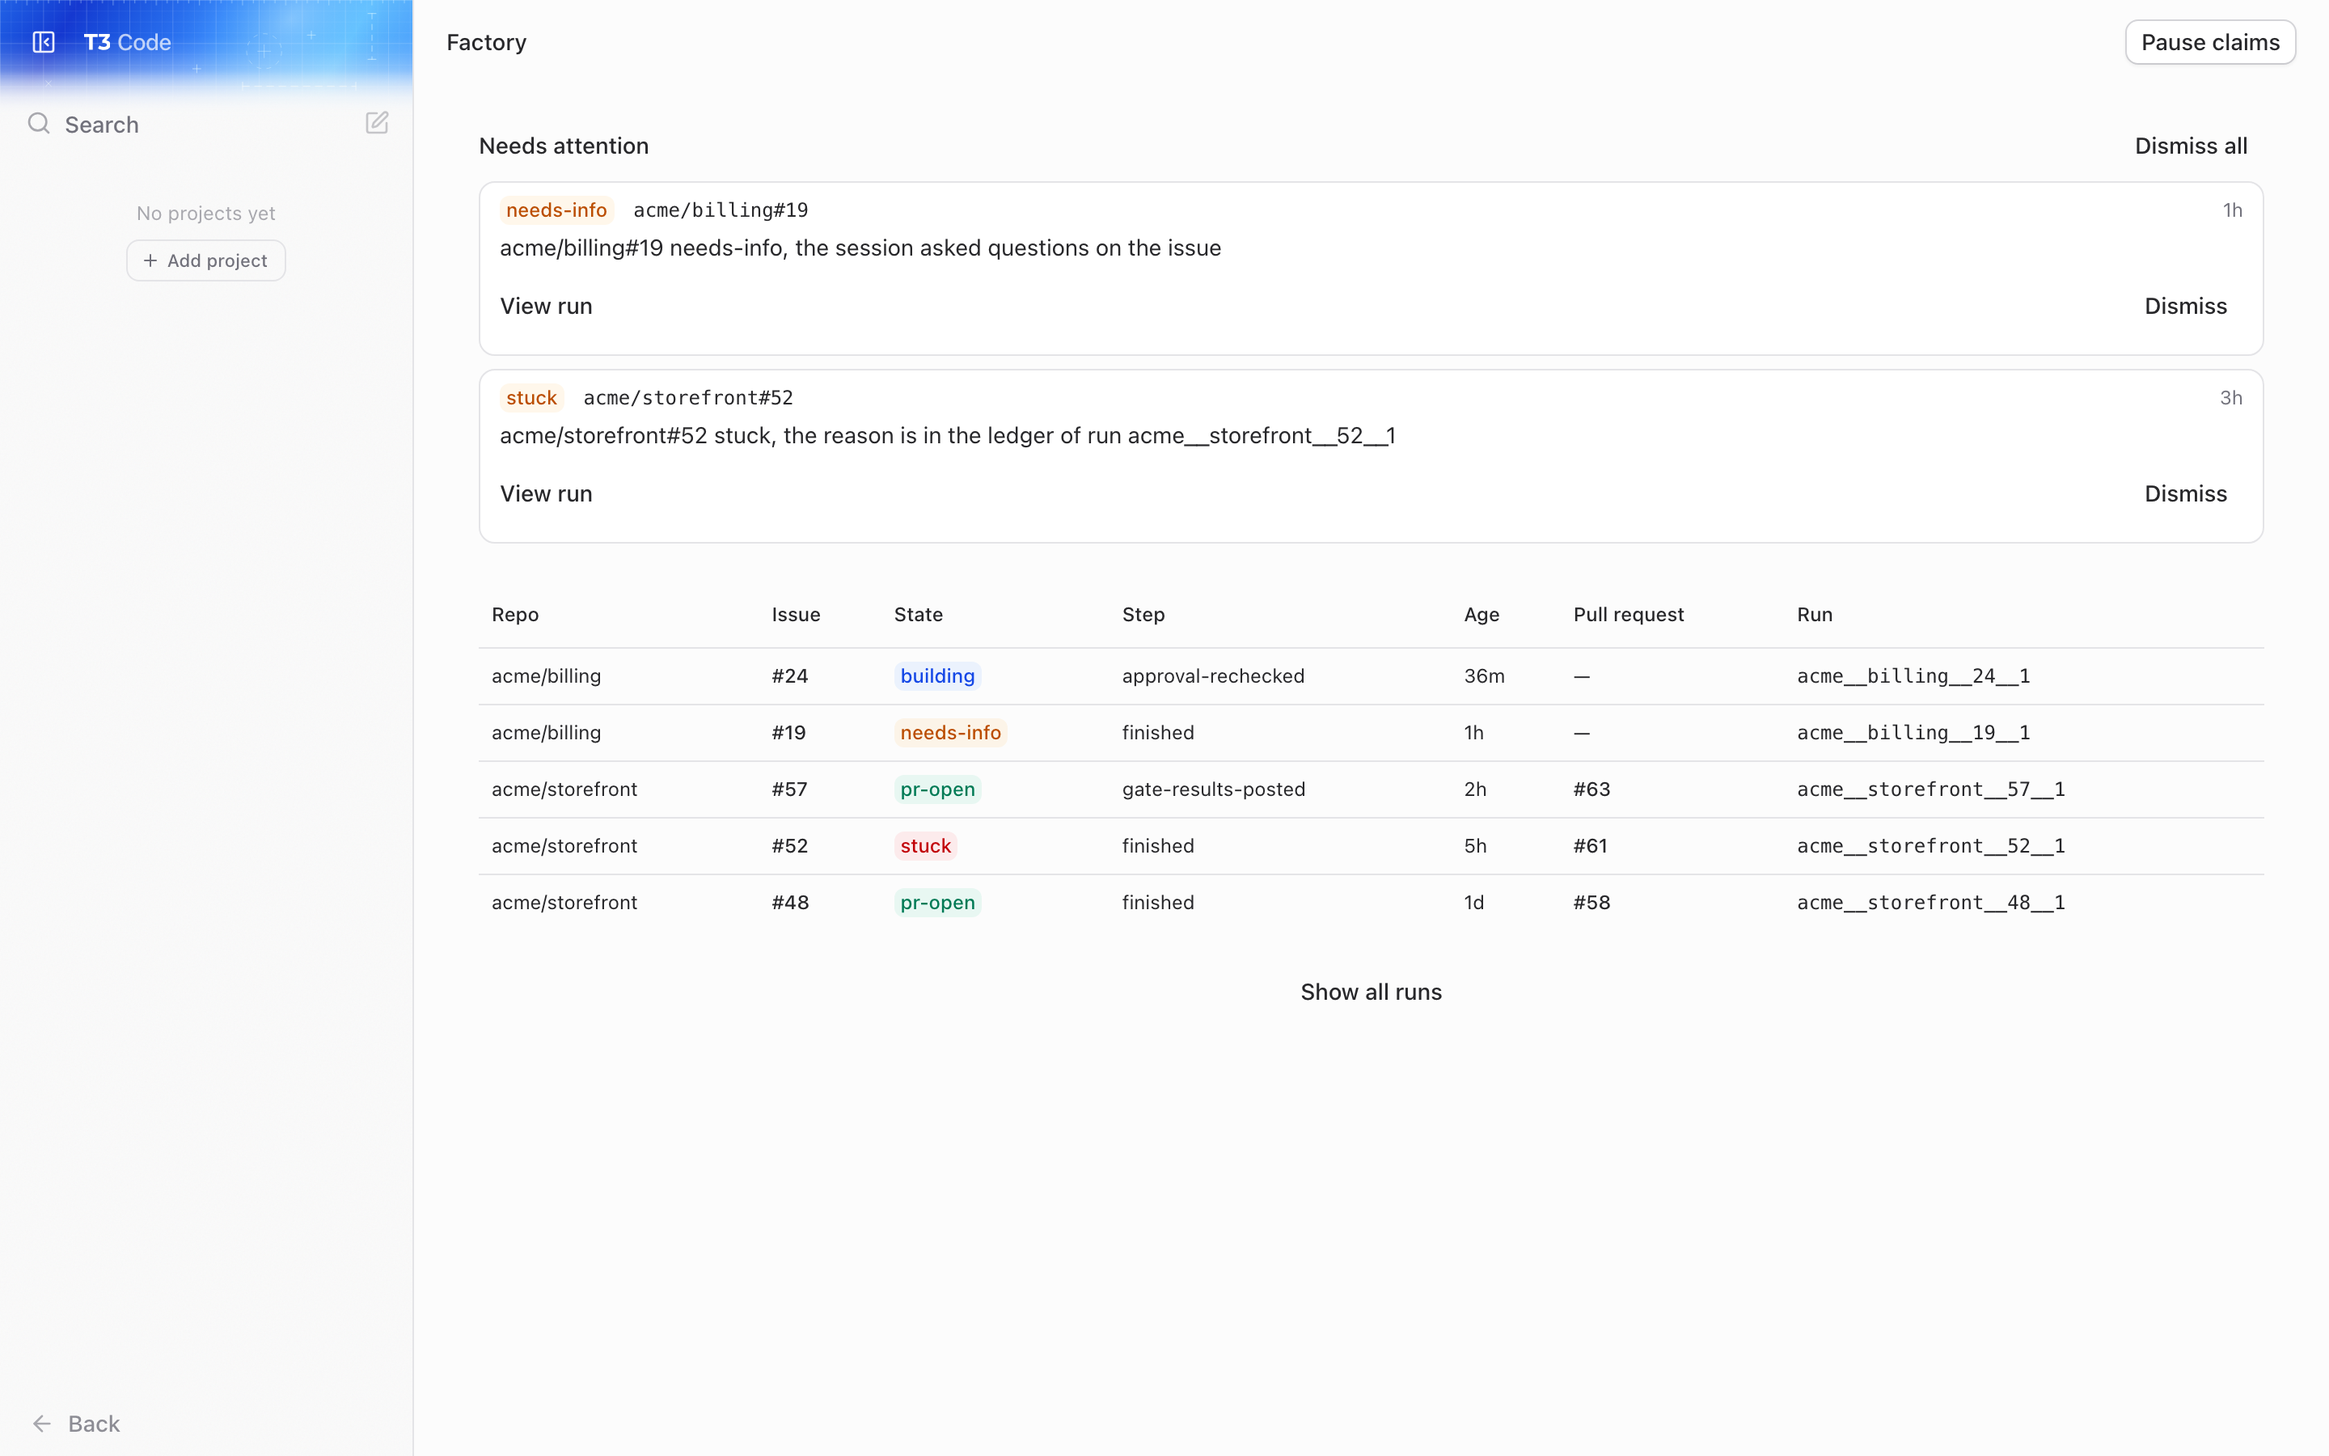
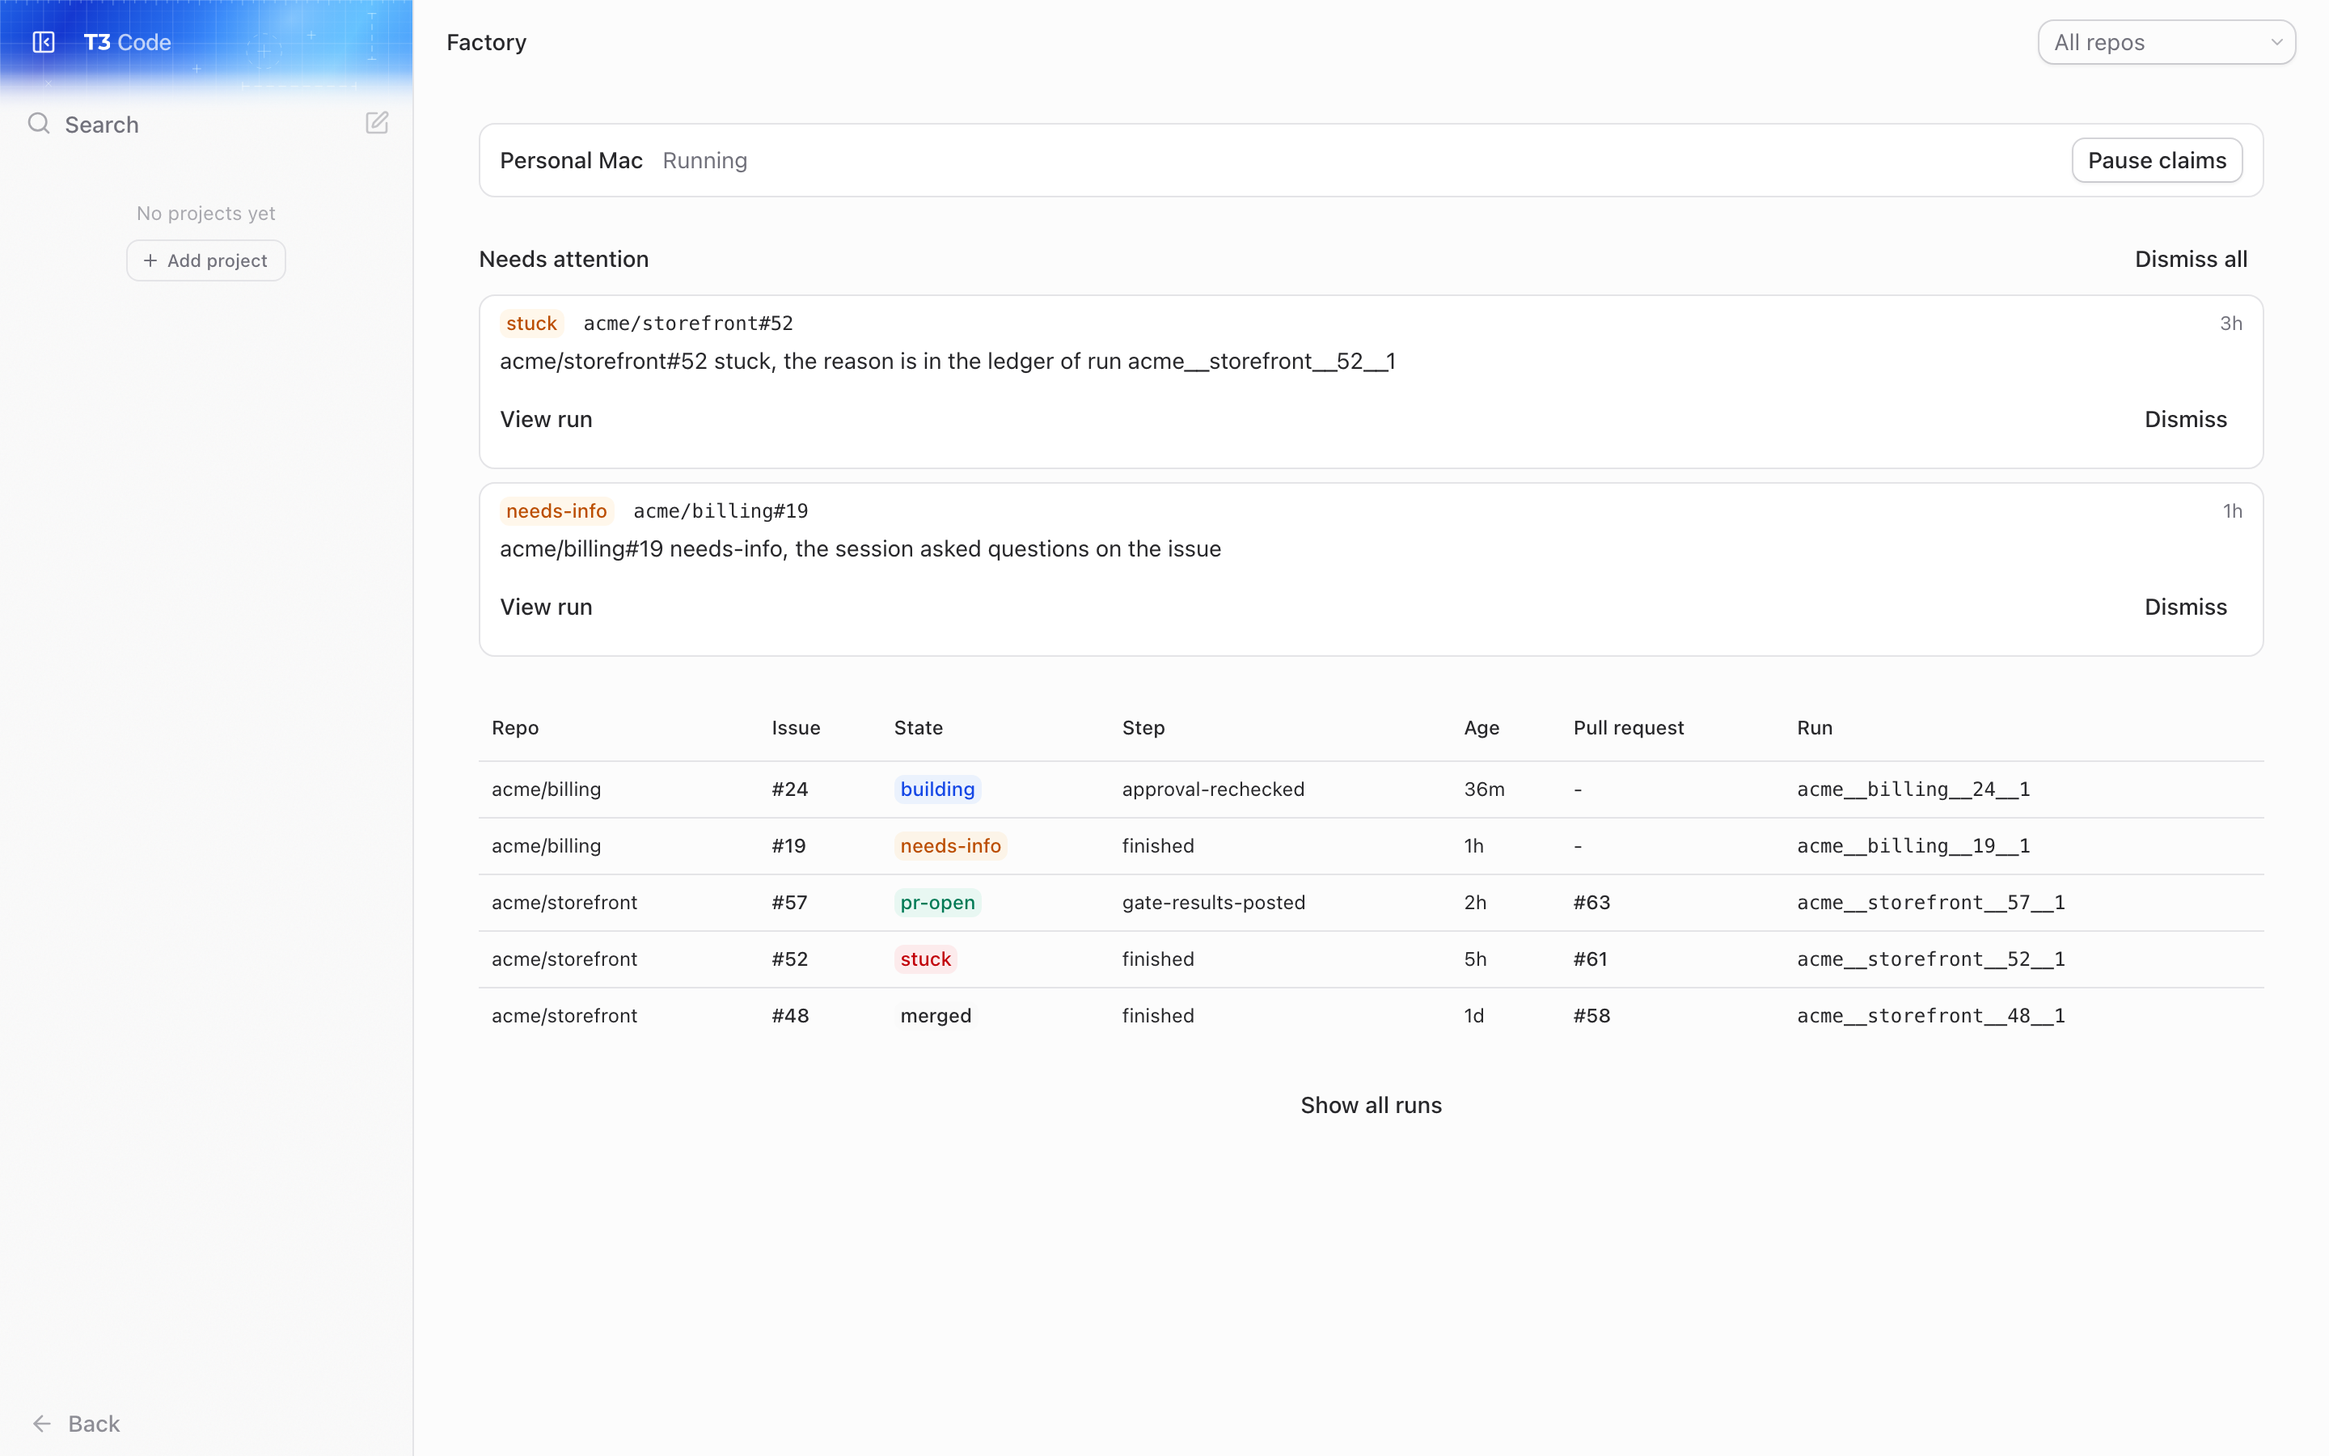
fix(factory): settings links open the factory's own environment, and docs show merged runs
- The idle row's and the config attention item's Factory settings links pass the
  environment as `machine`, so Settings edits that machine's config, not the primary's.
- Browser tests pin the merged/closed badge in the runs list (and the old label when a
  server sends no pr_end), and a finished run page's closed badge and "Step: finished".
- Ref moves to its own file, typed from LinkRef.
- The guide's screenshots are retaken with the demo data: the merged run reads merged,
  the run page links its issue and pull request, and the needs-info page shows its
  questions. Alt text follows.

diff --git a/apps/web/src/factory/FactoryPage.browser.test.tsx b/apps/web/src/factory/FactoryPage.browser.test.tsx
@@ -27,13 +27,23 @@ vi.mock("@tanstack/react-router", async (importOriginal) => ({
   Link: ({
     to,
     params,
+    search,
     children,
   }: {
     to: string;
     params?: Record<string, string>;
+    search?: Record<string, string>;
     children?: ReactNode;
   }) =>
-    createElement("a", { "data-to": to, "data-params": JSON.stringify(params ?? {}) }, children),
+    createElement(
+      "a",
+      {
+        "data-to": to,
+        "data-params": JSON.stringify(params ?? {}),
+        "data-search": JSON.stringify(search ?? {}),
+      },
+      children,
+    ),
   useSearch: () =>
     useSyncExternalStore(
       (listener) => {
@@ -303,6 +313,30 @@ describe("FactoryPage", () => {
     expect(text).toContain("claimed");
   });
 
+  it("shows merged or closed for a run that ended on its pull request, else its last state", async () => {
+    using _state = setup();
+    const ended = { state: "pr-open", finished: true, status: "finished", step: null };
+    state.runs = resource({
+      data: {
+        runs: [
+          runRow({ ...ended, id: "acme__merged__1__1", pr_end: "merged" }),
+          runRow({ ...ended, id: "acme__closed__2__1", pr_end: "closed" }),
+          // A server from before pr_end sends no such field.
+          runRow({ ...ended, id: "acme__older__3__1" }),
+        ],
+      },
+    });
+    await using page = await render(createElement(FactoryPage));
+    const badgeOf = (repo: string) =>
+      page
+        .all("tr")
+        .find((row) => row.textContent?.includes(repo))
+        ?.querySelector('[data-slot="badge"]')?.textContent;
+    expect(badgeOf("acme/merged")).toBe("merged");
+    expect(badgeOf("acme/closed")).toBe("closed");
+    expect(badgeOf("acme/older")).toBe("pr-open");
+  });
+
   it("marks an unreadable run", async () => {
     using _state = setup();
     state.runs = resource({
@@ -356,6 +390,8 @@ describe("FactoryPage", () => {
     expect(text).toContain("Idle: no factory config");
     const settings = page.all("a").find((a) => a.textContent === "Factory settings");
     expect(settings?.getAttribute("data-to")).toBe("/settings/factory");
+    // Settings opens on the idle environment, not the primary one.
+    expect(JSON.parse(settings!.getAttribute("data-search")!)).toEqual({ machine: "env-2" });
   });
 
   it("pauses claims, shows the answer and refreshes", async () => {
@@ -882,6 +918,7 @@ describe("FactoryPage dismissing attention items", () => {
     });
     const [settings] = linksIn(CONFIG.message);
     expect(settings!.getAttribute("data-to")).toBe("/settings/factory");
+    expect(JSON.parse(settings!.getAttribute("data-search")!)).toEqual({ machine: "env-2" });
     expect(linksIn(PASS.message)).toHaveLength(0);
     // Dismiss is its own control, never inside the link.
     for (const link of [run!, settings!]) {

diff --git a/apps/web/src/factory/RunsTable.tsx b/apps/web/src/factory/RunsTable.tsx
@@ -2,7 +2,7 @@ import { Link } from "@tanstack/react-router";
 
 import { useMediaQuery } from "~/hooks/useMediaQuery";
 import { Badge } from "~/components/ui/badge";
-import { Button, InlineButton } from "~/components/ui/button";
+import { Button } from "~/components/ui/button";
 import { Empty, EmptyHeader, EmptyTitle } from "~/components/ui/empty";
 import {
   Table,
@@ -25,7 +25,7 @@ import {
   shownState,
   stateBadgeVariant,
 } from "./format";
-import { TouchLink } from "./TouchLink";
+import { Ref } from "./Ref";
 
 const startedMs = (run: FactoryRunRow) =>
   run.started_ts ? Date.parse(run.started_ts) : Number.NaN;
@@ -50,25 +50,6 @@ const stateBadge = (run: FactoryRunRow) => {
   const state = shownState(run.state, run.pr_end);
   return <Badge variant={stateBadgeVariant(state)}>{labelForState(state)}</Badge>;
 };
-
-/** A reference that is a link when it has a target, else plain text; `touch` on the phone cards. */
-export function Ref({
-  text,
-  href,
-  touch = false,
-}: {
-  text: string;
-  href: string | null;
-  touch?: boolean;
-}) {
-  if (href === null) return <span className="min-w-0 break-all">{text}</span>;
-  const anchor = <a href={href} rel="noreferrer" target="_blank" />;
-  return touch ? (
-    <TouchLink render={anchor}>{text}</TouchLink>
-  ) : (
-    <InlineButton render={anchor}>{text}</InlineButton>
-  );
-}
 
 /**
  * One run for a phone: a link to the run that is the card's main tap target, and below it, outside

diff --git a/apps/web/src/factory/FactoryRunPage.browser.test.tsx b/apps/web/src/factory/FactoryRunPage.browser.test.tsx
@@ -290,6 +290,23 @@ describe("FactoryRunPage", () => {
     expect(why?.textContent).toContain("Which page should the link go on?");
   });
 
+  it("shows how a finished run's pull request ended, and its step as finished", async () => {
+    using _state = setup();
+    state.run = resource({
+      data: detail([
+        ...BUILDING,
+        entry("pr_opened", { pr: 31, url: "https://github.com/o/r/pull/31" }),
+        entry("state_changed", { from: "building", to: "pr-open" }),
+        entry("step_changed", { step: "pr-watching" }),
+        entry("finished", { outcome: "pr-open", pr_end: "closed" }),
+      ]),
+    });
+    await using page = await mount();
+    expect(page.all('[data-slot="badge"]')[0]?.textContent).toBe("closed");
+    expect(page.text()).toContain("Step: finished");
+    expect(page.text()).not.toContain("Step: pr-watching");
+  });
+
   it("disables Stop for a run that is not building or is finished", async () => {
     using _state = setup();
     state.run = resource({

diff --git a/apps/web/src/factory/EnvironmentStatusRows.tsx b/apps/web/src/factory/EnvironmentStatusRows.tsx
@@ -10,7 +10,7 @@ import { TouchLink } from "./TouchLink";
 import type { FactoryEnvironment } from "./useFactoryData";
 
 function Row({
-  environment: { label, status },
+  environment: { environmentId, label, status },
   busy,
   nowMs,
   onTogglePause,
@@ -50,7 +50,9 @@ function Row({
           </span>
           {/* The factory idles only for want of a machine config that loads. */}
           {report.state === "idle" ? (
-            <TouchLink render={<Link to="/settings/factory" />}>Factory settings</TouchLink>
+            <TouchLink render={<Link search={{ machine: environmentId }} to="/settings/factory" />}>
+              Factory settings
+            </TouchLink>
           ) : null}
           {paused ? (
             <span className="text-muted-foreground">

diff --git a/apps/web/src/factory/AttentionList.tsx b/apps/web/src/factory/AttentionList.tsx
@@ -7,7 +7,7 @@ import type { EnvironmentId } from "@t3tools/contracts";
 
 import type { FactoryAttentionItem } from "./api";
 import { formatAge, issueRef } from "./format";
-import { Ref } from "./RunsTable";
+import { Ref } from "./Ref";
 import { TouchLink } from "./TouchLink";
 
 /** An open attention item and the environment whose factory raised it. */
@@ -37,7 +37,11 @@ function ItemLink({
     );
   }
   if (item.kind === "config") {
-    return <TouchLink render={<Link to="/settings/factory" />}>Factory settings</TouchLink>;
+    return (
+      <TouchLink render={<Link search={{ machine: environmentId }} to="/settings/factory" />}>
+        Factory settings
+      </TouchLink>
+    );
   }
   return null;
 }

diff --git a/apps/web/src/factory/Ref.tsx b/apps/web/src/factory/Ref.tsx
@@ -1,0 +1,15 @@
+import { InlineButton } from "~/components/ui/button";
+
+import type { LinkRef } from "./format";
+import { TouchLink } from "./TouchLink";
+
+/** A reference that is a link when it has a target, else plain text; `touch` on the phone cards. */
+export function Ref({ text, href, touch = false }: LinkRef & { readonly touch?: boolean }) {
+  if (href === null) return <span className="min-w-0 break-all">{text}</span>;
+  const anchor = <a href={href} rel="noreferrer" target="_blank" />;
+  return touch ? (
+    <TouchLink render={anchor}>{text}</TouchLink>
+  ) : (
+    <InlineButton render={anchor}>{text}</InlineButton>
+  );
+}

diff --git a/apps/web/src/factory/FactoryRunPage.tsx b/apps/web/src/factory/FactoryRunPage.tsx
@@ -34,7 +34,7 @@ import {
   threadIdOf,
   whyStopped,
 } from "./format";
-import { Ref } from "./RunsTable";
+import { Ref } from "./Ref";
 import { TouchLink } from "./TouchLink";
 import { useFactoryEnvironmentLabel, useFactoryRun } from "./useFactoryData";
 

diff --git a/factory/site/guide/watching-runs.md b/factory/site/guide/watching-runs.md
@@ -6,8 +6,8 @@ The pages work in a phone's browser too, paired over your tailnet as described i
 
 ## The Factory page
 
-<img class="screenshot light-only" src="/screenshots/factory-page-light.png" alt="The Factory page: two Needs attention items above the runs table, with one run each building, needs-info, pr-open and stuck, and a finished run, each with its step, age and pull request" />
-<img class="screenshot dark-only" src="/screenshots/factory-page-dark.png" alt="The Factory page: two Needs attention items above the runs table, with one run each building, needs-info, pr-open and stuck, and a finished run, each with its step, age and pull request" />
+<img class="screenshot light-only" src="/screenshots/factory-page-light.png" alt="The Factory page: two Needs attention items above the runs table, with one run each building, needs-info, pr-open and stuck, and a merged run, each with its step, age and pull request" />
+<img class="screenshot dark-only" src="/screenshots/factory-page-dark.png" alt="The Factory page: two Needs attention items above the runs table, with one run each building, needs-info, pr-open and stuck, and a merged run, each with its step, age and pull request" />
 
 Use it to see what the factory is doing now. It lists every unfinished run and the runs that finished in the last week, newest first, with each run's repo, issue, state, current step, age and pull request. A run that ended because its pull request was merged or closed shows `merged` or `closed` as its state. Show all runs to read the full history. It refreshes every 30 seconds. With several environments or repos, narrow the page to one with the Environment and Repo selects in its header; the choice is in the URL, so a reload or a shared link keeps it.
 
@@ -15,8 +15,8 @@ It also says when the factory is idle and why (no machine config, or one that fa
 
 ## A run's page
 
-<img class="screenshot light-only" src="/screenshots/run-page-light.png" alt="A pr-open run's page: its state and step, the Thread link, the last gate's commands with exit code 0, and the ledger, where gate attempt 1 failed and was sent back before attempt 2 passed" />
-<img class="screenshot dark-only" src="/screenshots/run-page-dark.png" alt="A pr-open run's page: its state and step, the Thread link, the last gate's commands with exit code 0, and the ledger, where gate attempt 1 failed and was sent back before attempt 2 passed" />
+<img class="screenshot light-only" src="/screenshots/run-page-light.png" alt="A pr-open run's page: its state and step, the links to its thread, issue and pull request, the last gate's commands with exit code 0, and the ledger, where gate attempt 1 failed and was sent back before attempt 2 passed" />
+<img class="screenshot dark-only" src="/screenshots/run-page-dark.png" alt="A pr-open run's page: its state and step, the links to its thread, issue and pull request, the last gate's commands with exit code 0, and the ledger, where gate attempt 1 failed and was sent back before attempt 2 passed" />
 
 Open a run from the list to see why it is where it is. The page shows the run's state and step, and links to its issue, its pull request and its T3 thread, where you can read the session. A stuck run's page gives the reason it stopped, and a needs-info run's page the questions it posted on the issue. Below that is the last gate: each command with its exit code and duration, and the failure output the factory sent back to the session. Last comes the run's ledger, every event the factory recorded for it, in order.
 

diff --git a/factory/site/guide/when-a-run-stops.md b/factory/site/guide/when-a-run-stops.md
@@ -4,8 +4,8 @@ Most runs end at `factory:pr-open`. The rest end in one of two labels, each with
 
 ## needs-info
 
-<img class="screenshot light-only" src="/screenshots/run-needs-info-light.png" alt="A needs-info run's page: no gate has run, and the ledger's questions_posted line holds the questions the session posted on the issue" />
-<img class="screenshot dark-only" src="/screenshots/run-needs-info-dark.png" alt="A needs-info run's page: no gate has run, and the ledger's questions_posted line holds the questions the session posted on the issue" />
+<img class="screenshot light-only" src="/screenshots/run-needs-info-light.png" alt="A needs-info run's page: the questions the session posted on the issue, then the gate section, where no gate has run, and the ledger" />
+<img class="screenshot dark-only" src="/screenshots/run-needs-info-dark.png" alt="A needs-info run's page: the questions the session posted on the issue, then the gate section, where no gate has run, and the ledger" />
 
 The session decided the issue can't be built as written: the outcome is unclear, two readings would give different code, or the issue holds two separate pieces of work. It ends with its questions, and the factory posts them as a comment, sets `factory:needs-info` and unassigns the issue.
 
